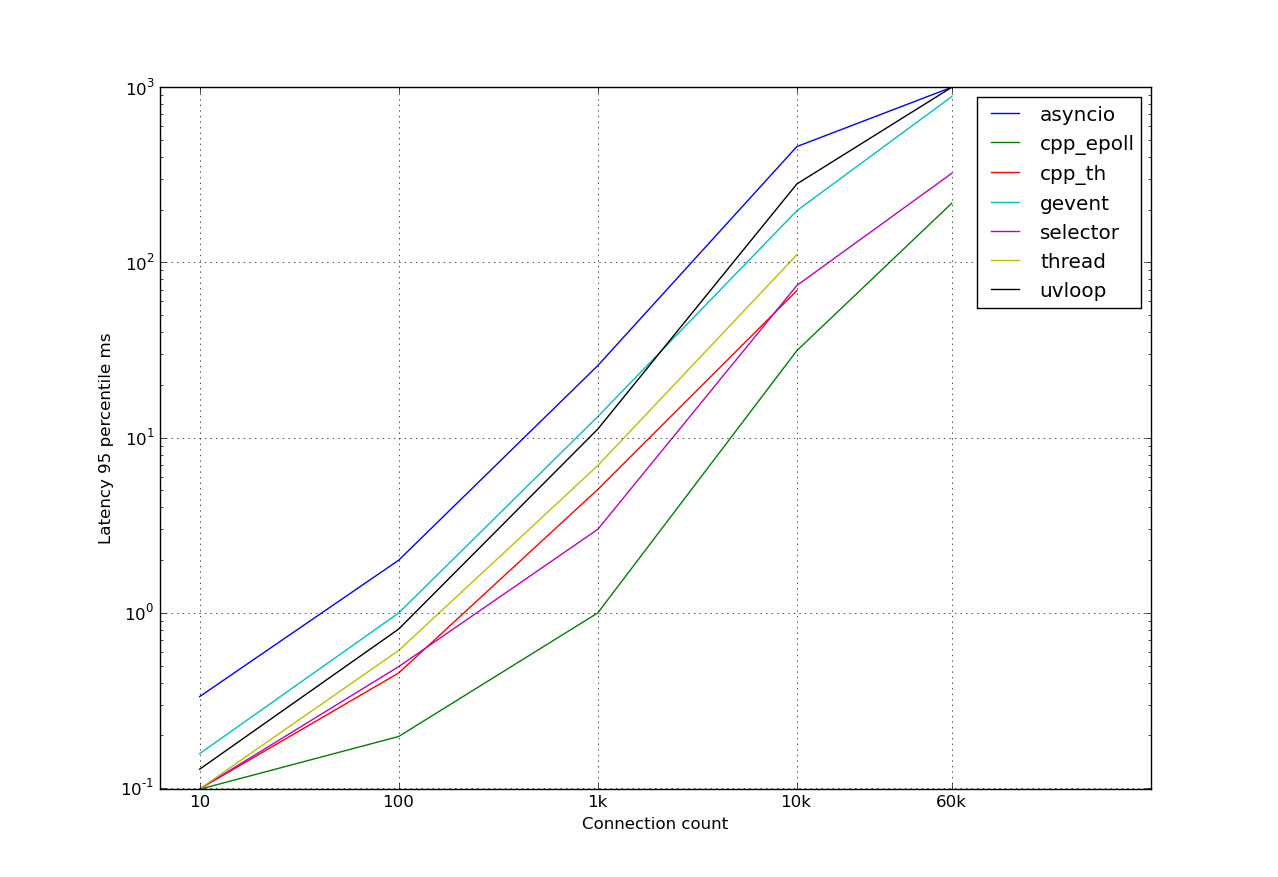
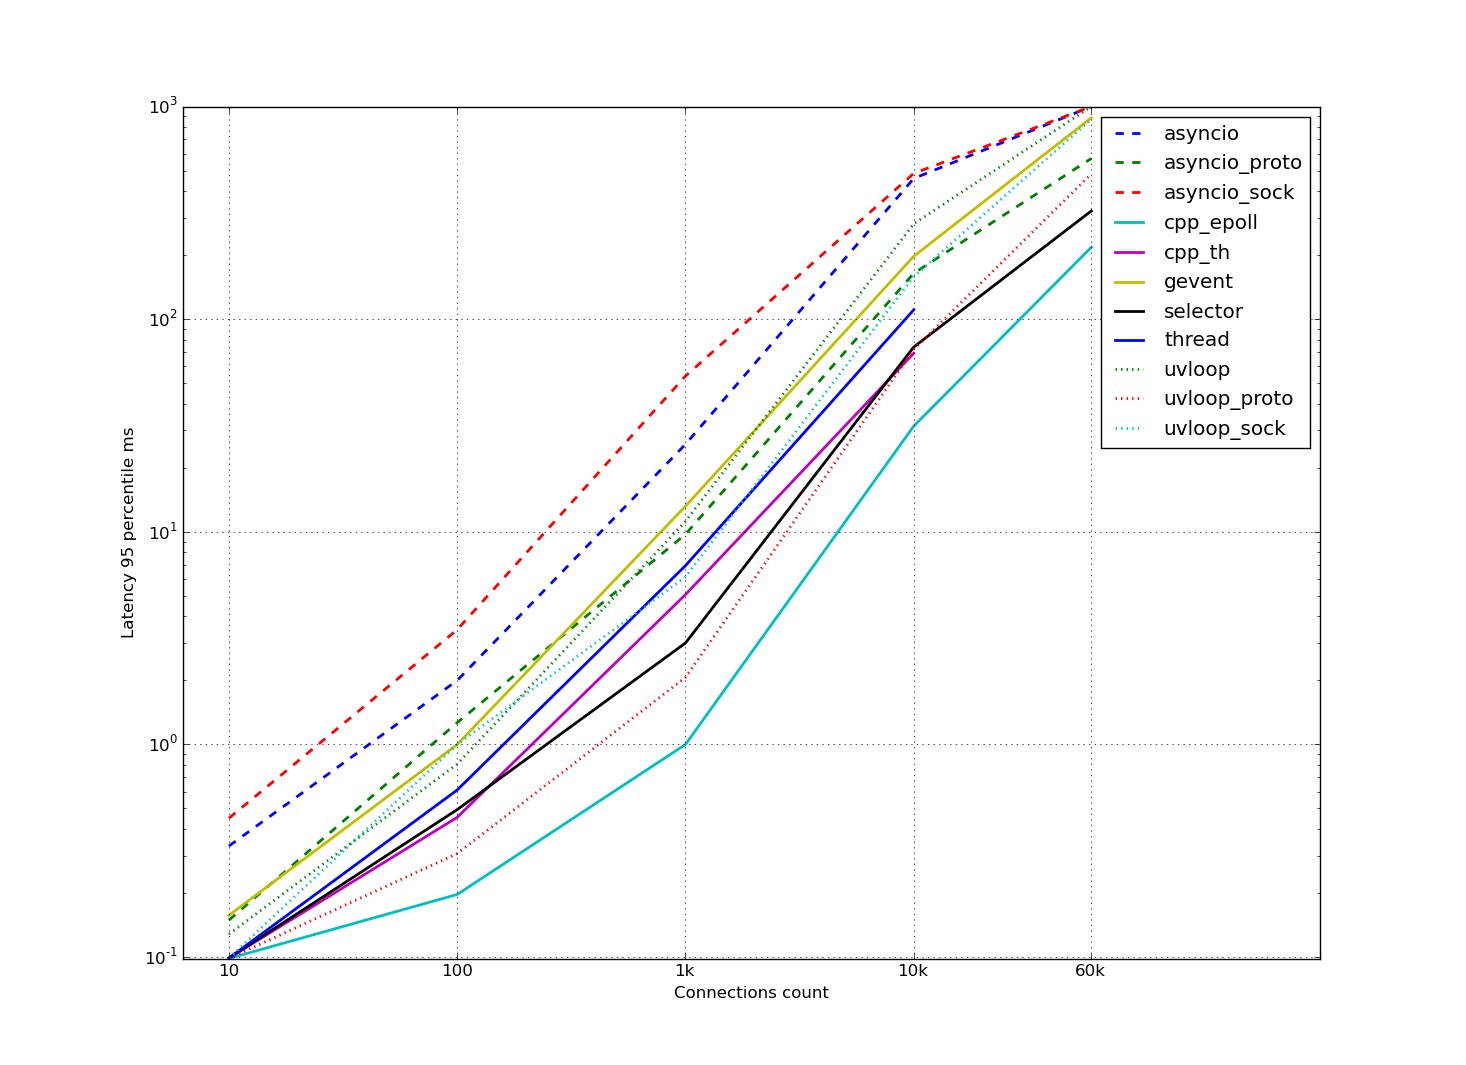
update report

diff --git a/plot_tests_results.py b/plot_tests_results.py
@@ -1,8 +1,11 @@
+from __future__ import print_function
+
 import sys
 import math
 import yaml
 import argparse
 import collections
+
 
 
 def ns_to_readable(val):
@@ -82,10 +85,19 @@ def show_plot(points, data, scale=1, with_dev=True, log_scale_y=False, ylabel=No
                 if with_dev:
                     y_dev.append(dev / scale)
                 x.append(pt2coord[pt])
-        if with_dev:
-            plt.errorbar(x, y, y_dev, label=test_label(params))
+
+        if params.func.startswith('asyncio'):
+            ls = 'dashed'
+        elif params.func.startswith('uvloop'):
+            ls = 'dotted'
         else:
-            plt.plot(x, y, label=test_label(params))
+            ls = 'solid'
+
+        lw = 2
+        if with_dev:
+            plt.errorbar(x, y, y_dev, label=test_label(params), ls=ls, lw=lw)
+        else:
+            plt.plot(x, y, label=test_label(params), ls=ls, lw=lw)
 
     ticks = []
     for i in points:
@@ -174,16 +186,16 @@ def show_table(points, data, with_dev=True):
             else:
                 row.append("---")
         table.add_row(row)
-    print table.draw()
+    print(table.draw())
 
 
 def main(argv):
     parser = argparse.ArgumentParser()
-
     parser.add_argument('--server', '-s')
     parser.add_argument('--funcs', '-f')
     parser.add_argument('--table', '-t', action="store_true", default=False)
-    parser.add_argument('value')
+    parser.add_argument('metrix_type',
+                        choices=['mps', 'lat50', 'lat95', 'stime', 'utime', 'info'])
     parser.add_argument('files', nargs='*', default=[])
 
     opts = parser.parse_args(argv[1:])
@@ -205,6 +217,21 @@ def main(argv):
             for run in block['data']:
                 test_run_params['func'] = run.pop('func')
                 results[TestRun(**test_run_params)].append(RunData(**run))
+
+    if opts.metrix_type == 'info':
+        servers = set()
+        funcs = set()
+        workers = set()
+
+        for test_run in results:
+            servers.add(test_run.server)
+            workers.add(test_run.workers)
+            funcs.add(test_run.func)
+        print("Servers =", ",".join(sorted(servers)))
+        print("Workers =", ",".join(map(str, sorted(workers))))
+        print("Funcs =", ",".join(sorted(funcs)))
+        print("Num items =", sum(len(vals) for vals in results.values()))
+        return 0
 
     for_plot = {}
     for key, val in results.items():
@@ -266,25 +293,25 @@ def main(argv):
             rel_mps_s[key1][key2] = AvgDev("{:>2d}".format(vl), None)
             rel_mps[key1][key2] = AvgDev(vl, None)
 
-    if opts.value == 'mps':
+    if opts.metrix_type == 'mps':
         if opts.table:
             show_table(points, mps, with_dev=True)
         else:
             show_plot(points, mps, 1000,
-                      ylabel="Thousands message per second", xlabel="Connection count")
-    elif opts.value == 'lat95':
+                      ylabel="Thousands of messages per second", xlabel="Connections count")
+    elif opts.metrix_type == 'lat95':
         if opts.table:
             show_table(points, lat_95_s, with_dev=False)
         else:
             show_plot(points, lat_95, with_dev=False, log_scale_y=True,
-                      ylabel="Latency 95 percentile ms", xlabel="Connection count")
-    elif opts.value == 'lat50':
+                      ylabel="Latency 95 percentile ms", xlabel="Connections count")
+    elif opts.metrix_type == 'lat50':
         if opts.table:
             show_table(points, lat_50_s, with_dev=False)
         else:
             show_plot(points, lat_50, with_dev=False, log_scale_y=True,
-                      ylabel="Latency 50% percentile ms", xlabel="Connection count")
-    elif opts.value == 'utime':
+                      ylabel="Latency 50% percentile ms", xlabel="Connections count")
+    elif opts.metrix_type == 'utime':
         assert not opts.table
         show_table(points, utime, with_dev=False)
 

diff --git a/perf_report.md b/perf_report.md
@@ -181,11 +181,11 @@ Python ведет себя нестабильно при 10k+ потоков.
 
 #### Отличия от реальных систем
 
-Основным отличием от реальных систем является почти полное отсутвие задержек в
+* Основным отличием от реальных систем является почти полное отсутвие задержек в
 протоколе. Сервер поддерживает таймауты на сокетах, но эти тесты я еще не довел
 до конца. 
-
-Также можно было потюнить TCP стек.
+* Можно было потюнить TCP стек
+* ???
 
 
 ### Тесты скорости:
@@ -194,9 +194,12 @@ Python ведет себя нестабильно при 10k+ потоков.
 172.16.40.43 - локальный.
 
 Сообщений_в_секунду ~ 2.5 * stddev (== 95% интервал). Удаленный сервер.
-Графики показывают только самые интересные данные.
 
 ![](/images/remote_mps.png)
+
+
+То-же, без cpp_epoll:
+![](/images/remote_mps_no_cpp_epoll.png)
 
 <pre>
 +---------------+-------------+-------------+-------------+-------------+-------------+
@@ -238,6 +241,7 @@ Python ведет себя нестабильно при 10k+ потоков.
 </pre>
 
 Сообщений_в_секунду ~ 2.5 * stddev (== 95% интервал). Локальный сервер.
+asyncio_sock для >10 сокетов исключены, см. раздел "Особенности".
 
 ![](/images/local_mps.png)
 
@@ -285,13 +289,14 @@ Python ведет себя нестабильно при 10k+ потоков.
 
 Общее распределение по убыванию скоростей примерно такое:
 
-1. cpp_epoll
-2. uvloop_proto, selector
-3. cpp_th
+1. cpp\_epoll
+2. uvloop\_proto, selector
+3. cpp\_th
 4. thread
-5. uvloop, asyncio_proto
+5. uvloop, uvloop\_sock, asyncio\_proto
 6. gevent
-7. asyncio, asyncio_sock
+7. asyncio
+8. asyncio_sock
 
 
 Выводы по скорости:
@@ -305,7 +310,7 @@ Python ведет себя нестабильно при 10k+ потоков.
   избавления от практически всех накладных расходов. Но его API копирует "старый"
   twisted, т.е. хорошо подходит только для очень ограниченного количества простых
   протоколов общения с одним клиентом. Фактически оно бесполезно для подавляющего
-  большинства программ, и в любом случае лишено все преймуществ yield-based API.
+  большинства программ и в любом случае лишено всех преймуществ yield-based API.
 * По мере роста количества соединений скорости у всех более-менее быстрых вариантов проседают
 * Скорости вариантов на потоках и asyncio/uvloop падают быстрее всего
 * Даже на 20k соединений потоки все еще в разы быстрее и asyncio/uvloop
@@ -329,17 +334,21 @@ Python ведет себя нестабильно при 10k+ потоков.
 ![](/images/remote_lat95.png)
 
 <pre>
-+-----------+--------+--------+-------+--------+--------+
-|   Test    |   10   |  100   |  1k   |  10k   |  60k   |
-+===========+========+========+=======+========+========+
-|  asyncio  | 333 us |  2 ms  | 25 ms | 458 ms |  >1s   |
-| cpp_epoll | 98 us  | 197 us | 1 ms  | 31 ms  | 218 ms |
-|  cpp_th   | 99 us  | 454 us | 5 ms  | 69 ms  |  ---   |
-|  gevent   | 157 us |  1 ms  | 13 ms | 197 ms | 884 ms |
-| selector  | 99 us  | 493 us | 3 ms  | 73 ms  | 322 ms |
-|  thread   | 99 us  | 610 us | 6 ms  | 110 ms |  ---   |
-|  uvloop   | 128 us | 809 us | 11 ms | 280 ms |  >1s   |
-+-----------+--------+--------+-------+--------+--------+
++---------------+--------+--------+-------+--------+--------+
+|     Test      |   10   |  100   |  1k   |  10k   |  60k   |
++===============+========+========+=======+========+========+
+|    asyncio    | 333 us |  2 ms  | 25 ms | 458 ms |  >1s   |
+| asyncio_proto | 149 us |  1 ms  |  9 ms | 164 ms | 569 ms |
+| asyncio_sock  | 450 us |  3 ms  | 54 ms | 484 ms |  >1s   |
+|   cpp_epoll   |  98 us | 197 us |  1 ms |  31 ms | 218 ms |
+|    cpp_th     |  99 us | 454 us |  5 ms |  69 ms |  ---   |
+|    gevent     | 157 us |  1 ms  | 13 ms | 197 ms | 884 ms |
+|   selector    |  99 us | 493 us |  3 ms |  73 ms | 322 ms |
+|    thread     |  99 us | 610 us |  6 ms | 110 ms |  ---   |
+|    uvloop     | 128 us | 809 us | 11 ms | 280 ms |  >1s   |
+| uvloop_proto  |  98 us | 306 us |  2 ms |  72 ms | 482 ms |
+|  uvloop_sock  |  99 us |  1 ms  |  6 ms | 158 ms | 872 ms |
++---------------+--------+--------+-------+--------+--------+
 </pre>
 
 
@@ -394,9 +403,11 @@ asyncio = sendto + recvfrom + mremap + munmap + mmap + 0.02 * epoll_wait
 asyncio_proto = sendto + recvfrom + mremap + munmap + mmap + 0.01 * epoll_wait
     Те же странные mXXmap, что и в asyncio
 
-asyncio_sock = sendto + recvfrom + 0.04 * epoll_ctl
-    По идее asyncio_sock должна делать 2 вызова epoll_ctl на каждый
+asyncio_sock(local) = sendto + recvfrom + 0.04 * epoll_ctl
+    asyncio_sock должна делать 2 вызова epoll_ctl на каждый
     recvfrom, но из-за описанной выше опитимизации этого не происходит.
+
+asyncio_sock(remote) = 2 * epoll_ctl + sendto + recvfrom + 0.01 * epoll_wait
 
 uvloop = read + write + 0.01 * epoll_wait
 uvloop_sock = 2 * epoll_ctl + sendto + recvfrom + 0.01 * epoll_wait
@@ -430,6 +441,18 @@ gevent = 2 * recvfrom + sendto + 0.01 * epoll_wait
 +---------------+----+
 </pre>
 
+
+### Общие выводы
+
+* asyncio _очень медленный_. uvloop делает его просто _медленным_
+* asyncio разрабатывался с целью быть единым API для обработки различных асинхронных источников данных,
+и с этой задачей он справляется хорошо
+* uvloop\_proto весьма быстрый, но его API это классические функции обратного вызова и оно
+не подходит для мультиплексирования разных источников
+* потоки быстрее, но имеют свои проблемы
+* до с++/java/go еще очень далеко.
+
+
 #### Полезные ссылки
 
 * Asyncio build in 45m - https://www.youtube.com/watch?v=MCs5OvhV9S
@@ -441,7 +464,7 @@ gevent = 2 * recvfrom + sendto + 0.01 * epoll_wait
 * Акторы в скале - [9], [10], [11]
 * Кусок эппопеи с шедулерами в Go - https://morsmachine.dk/go-scheduler
 * Twisted & asyncio - https://glyph.twistedmatrix.com/2014/05/the-report-of-our-death.html
-
+* Curio библиотека для асинхронного IO от David Beazley - https://github.com/dabeaz/curio
 
 [1]: https://docs.python.org/3/library/asyncio-stream.html#tcp-echo-client-using-streams
 [2]: https://docs.python.org/3/library/asyncio-protocol.html#tcp-echo-client-protocol
